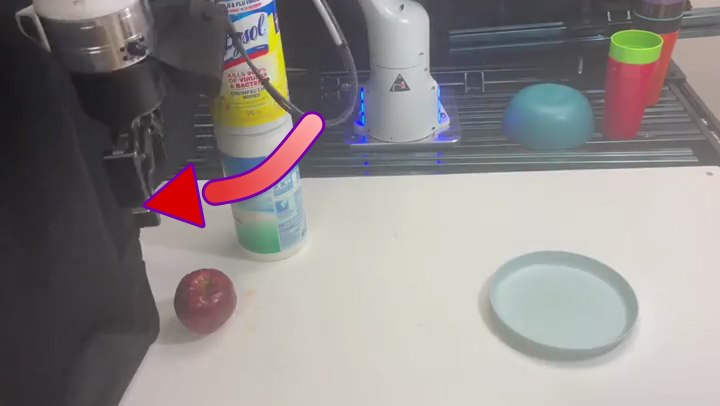
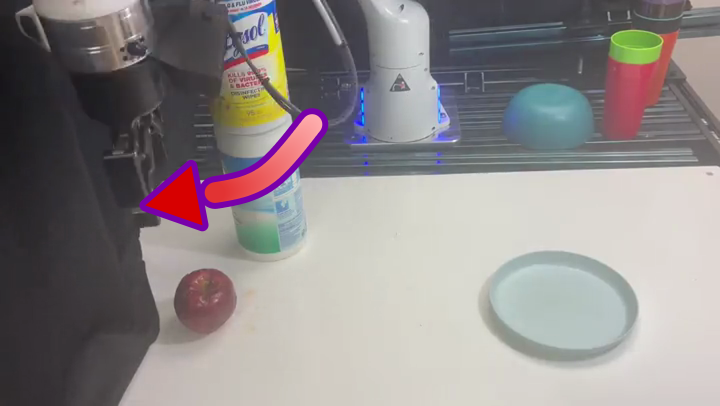
Thicker purple borders

diff --git a/assets/hardware/frames/render_trajectories.py b/assets/hardware/frames/render_trajectories.py
@@ -101,7 +101,7 @@ def main():
         big = cv2.resize(im, None, fx=SS, fy=SS, interpolation=cv2.INTER_CUBIC)
         stops = next((v for k, v in SCHEMES.items() if name.startswith(k)), SCHEMES["2_"])
         draw_arrow(big, pts, W=20 * im.shape[1] / 720, stops=stops, border=BORDER.get(name),
-                   bw=3.0 * im.shape[1] / 720)
+                   bw=6.0 * im.shape[1] / 720)
         cv2.imwrite(os.path.join(out, name),
                     cv2.resize(big, (im.shape[1], im.shape[0]), interpolation=cv2.INTER_AREA))
         print("wrote", os.path.join(out, name))
